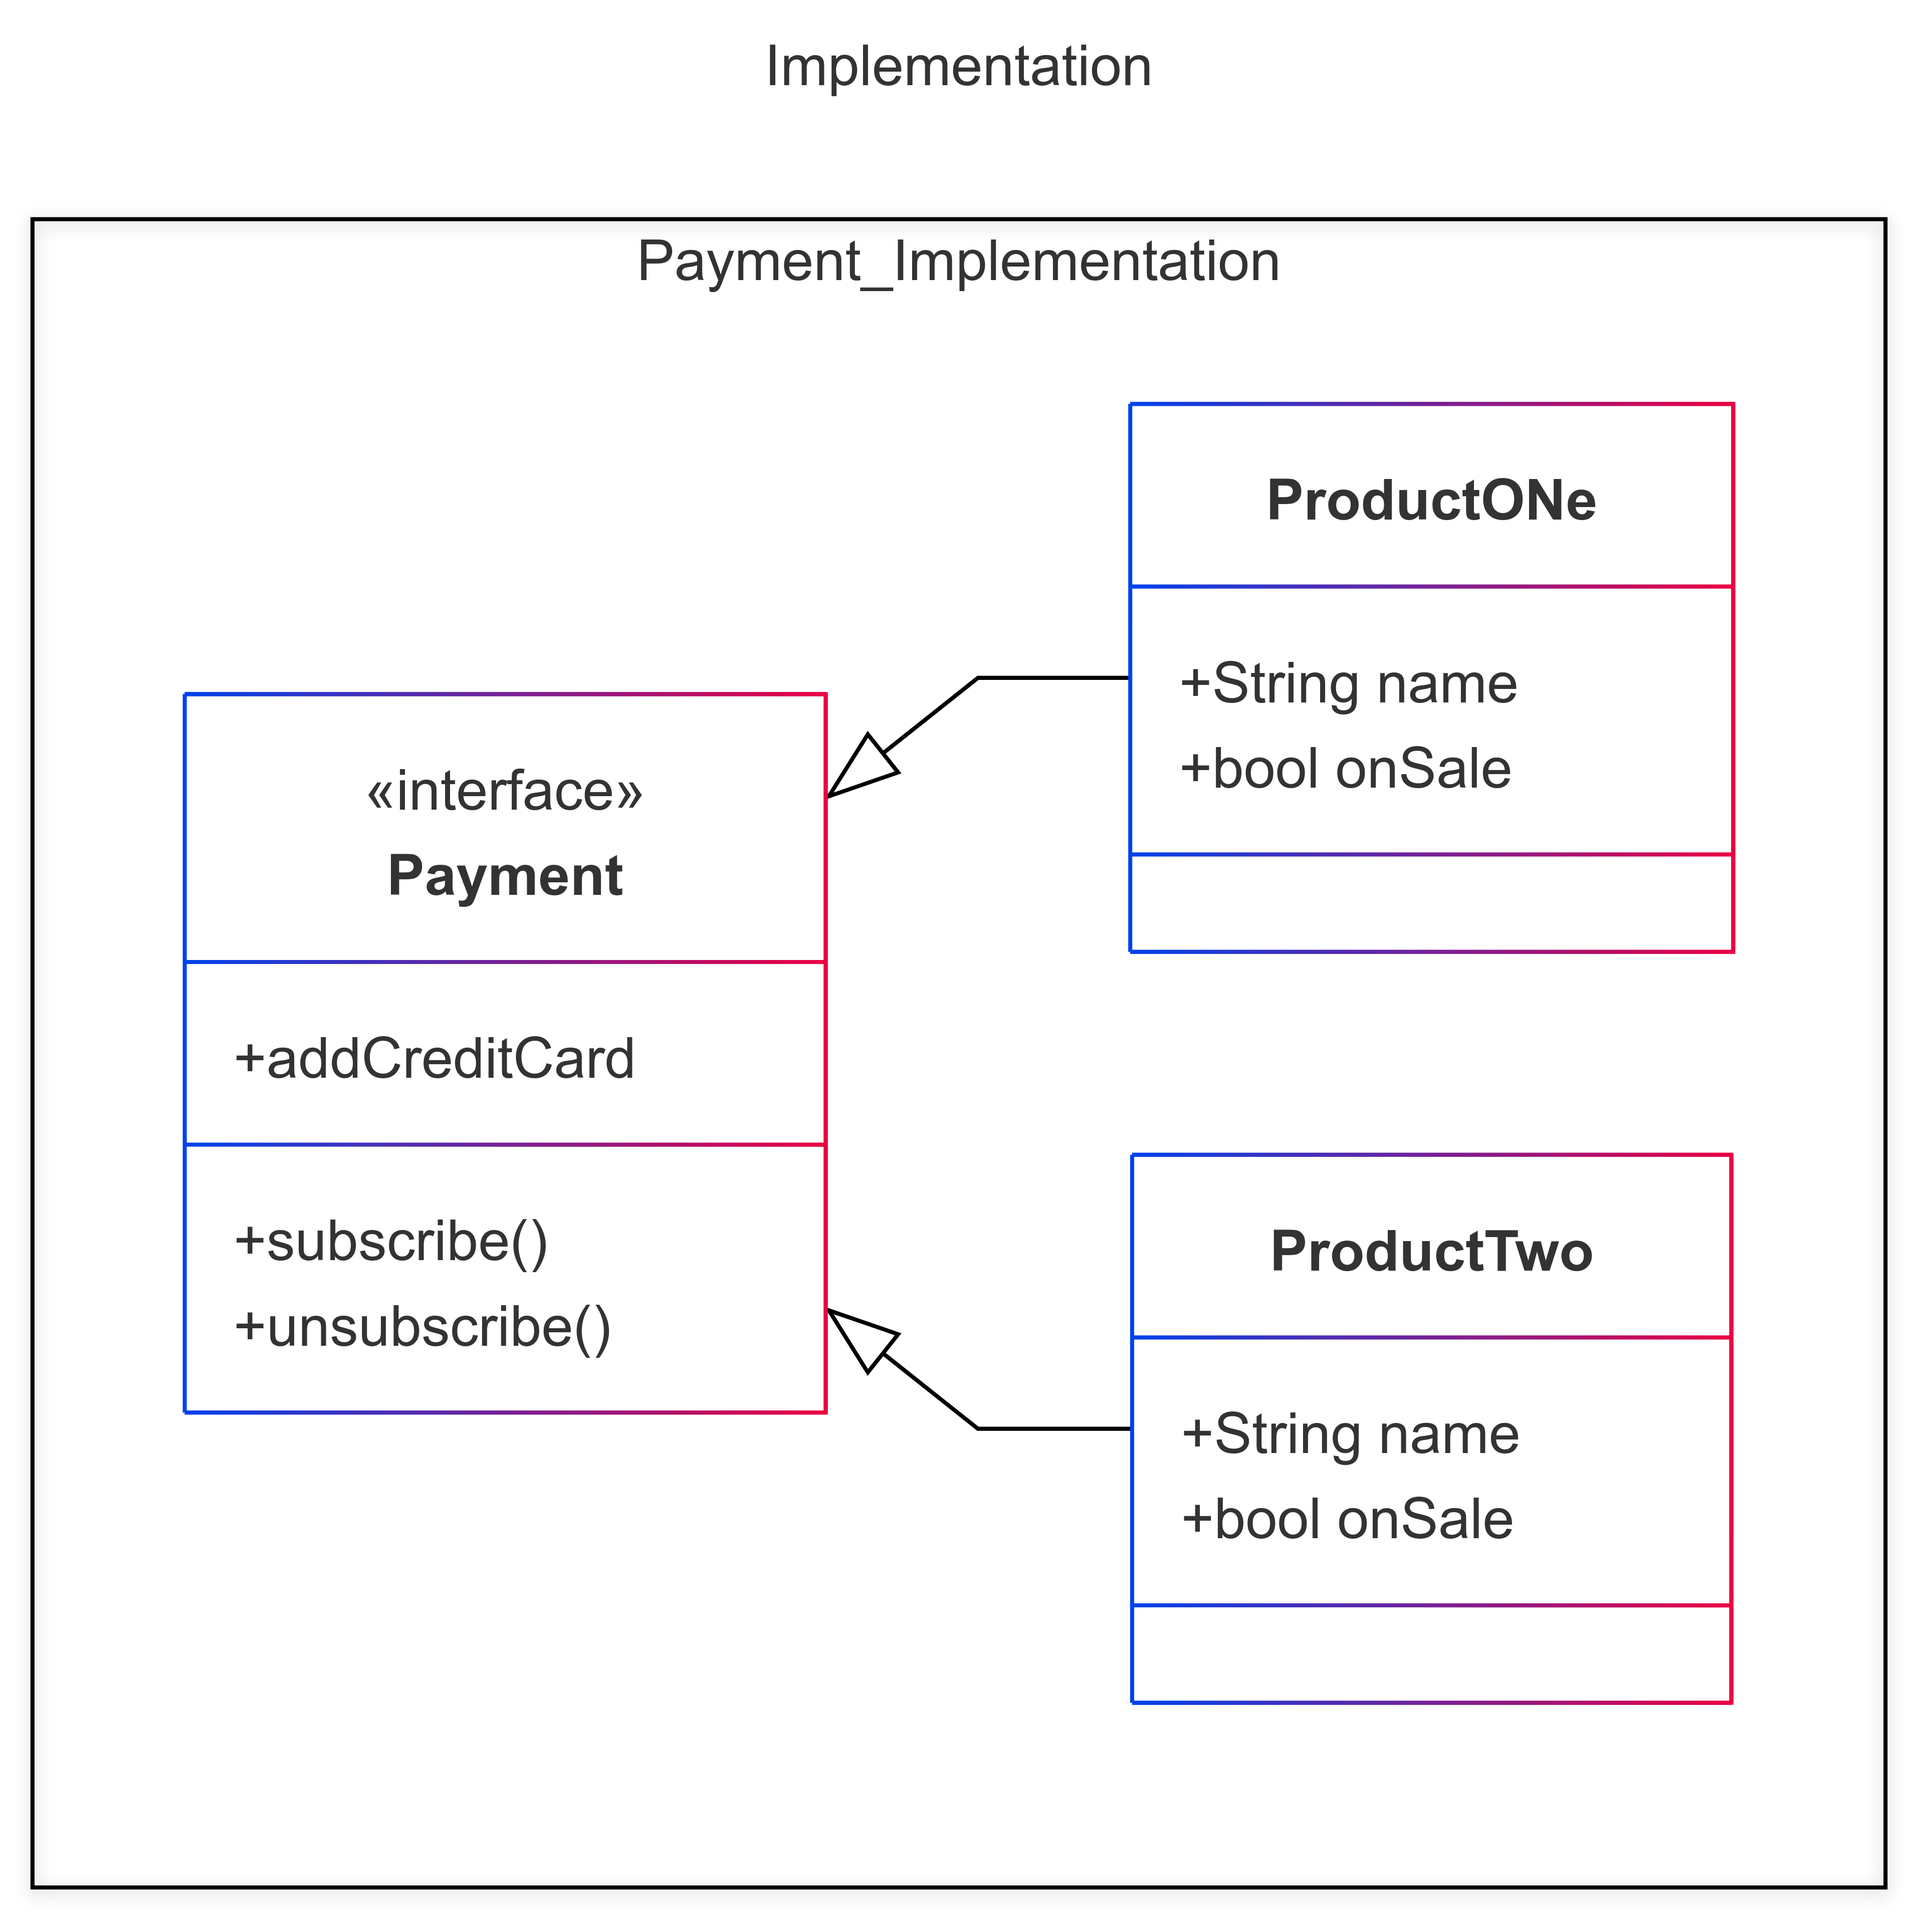
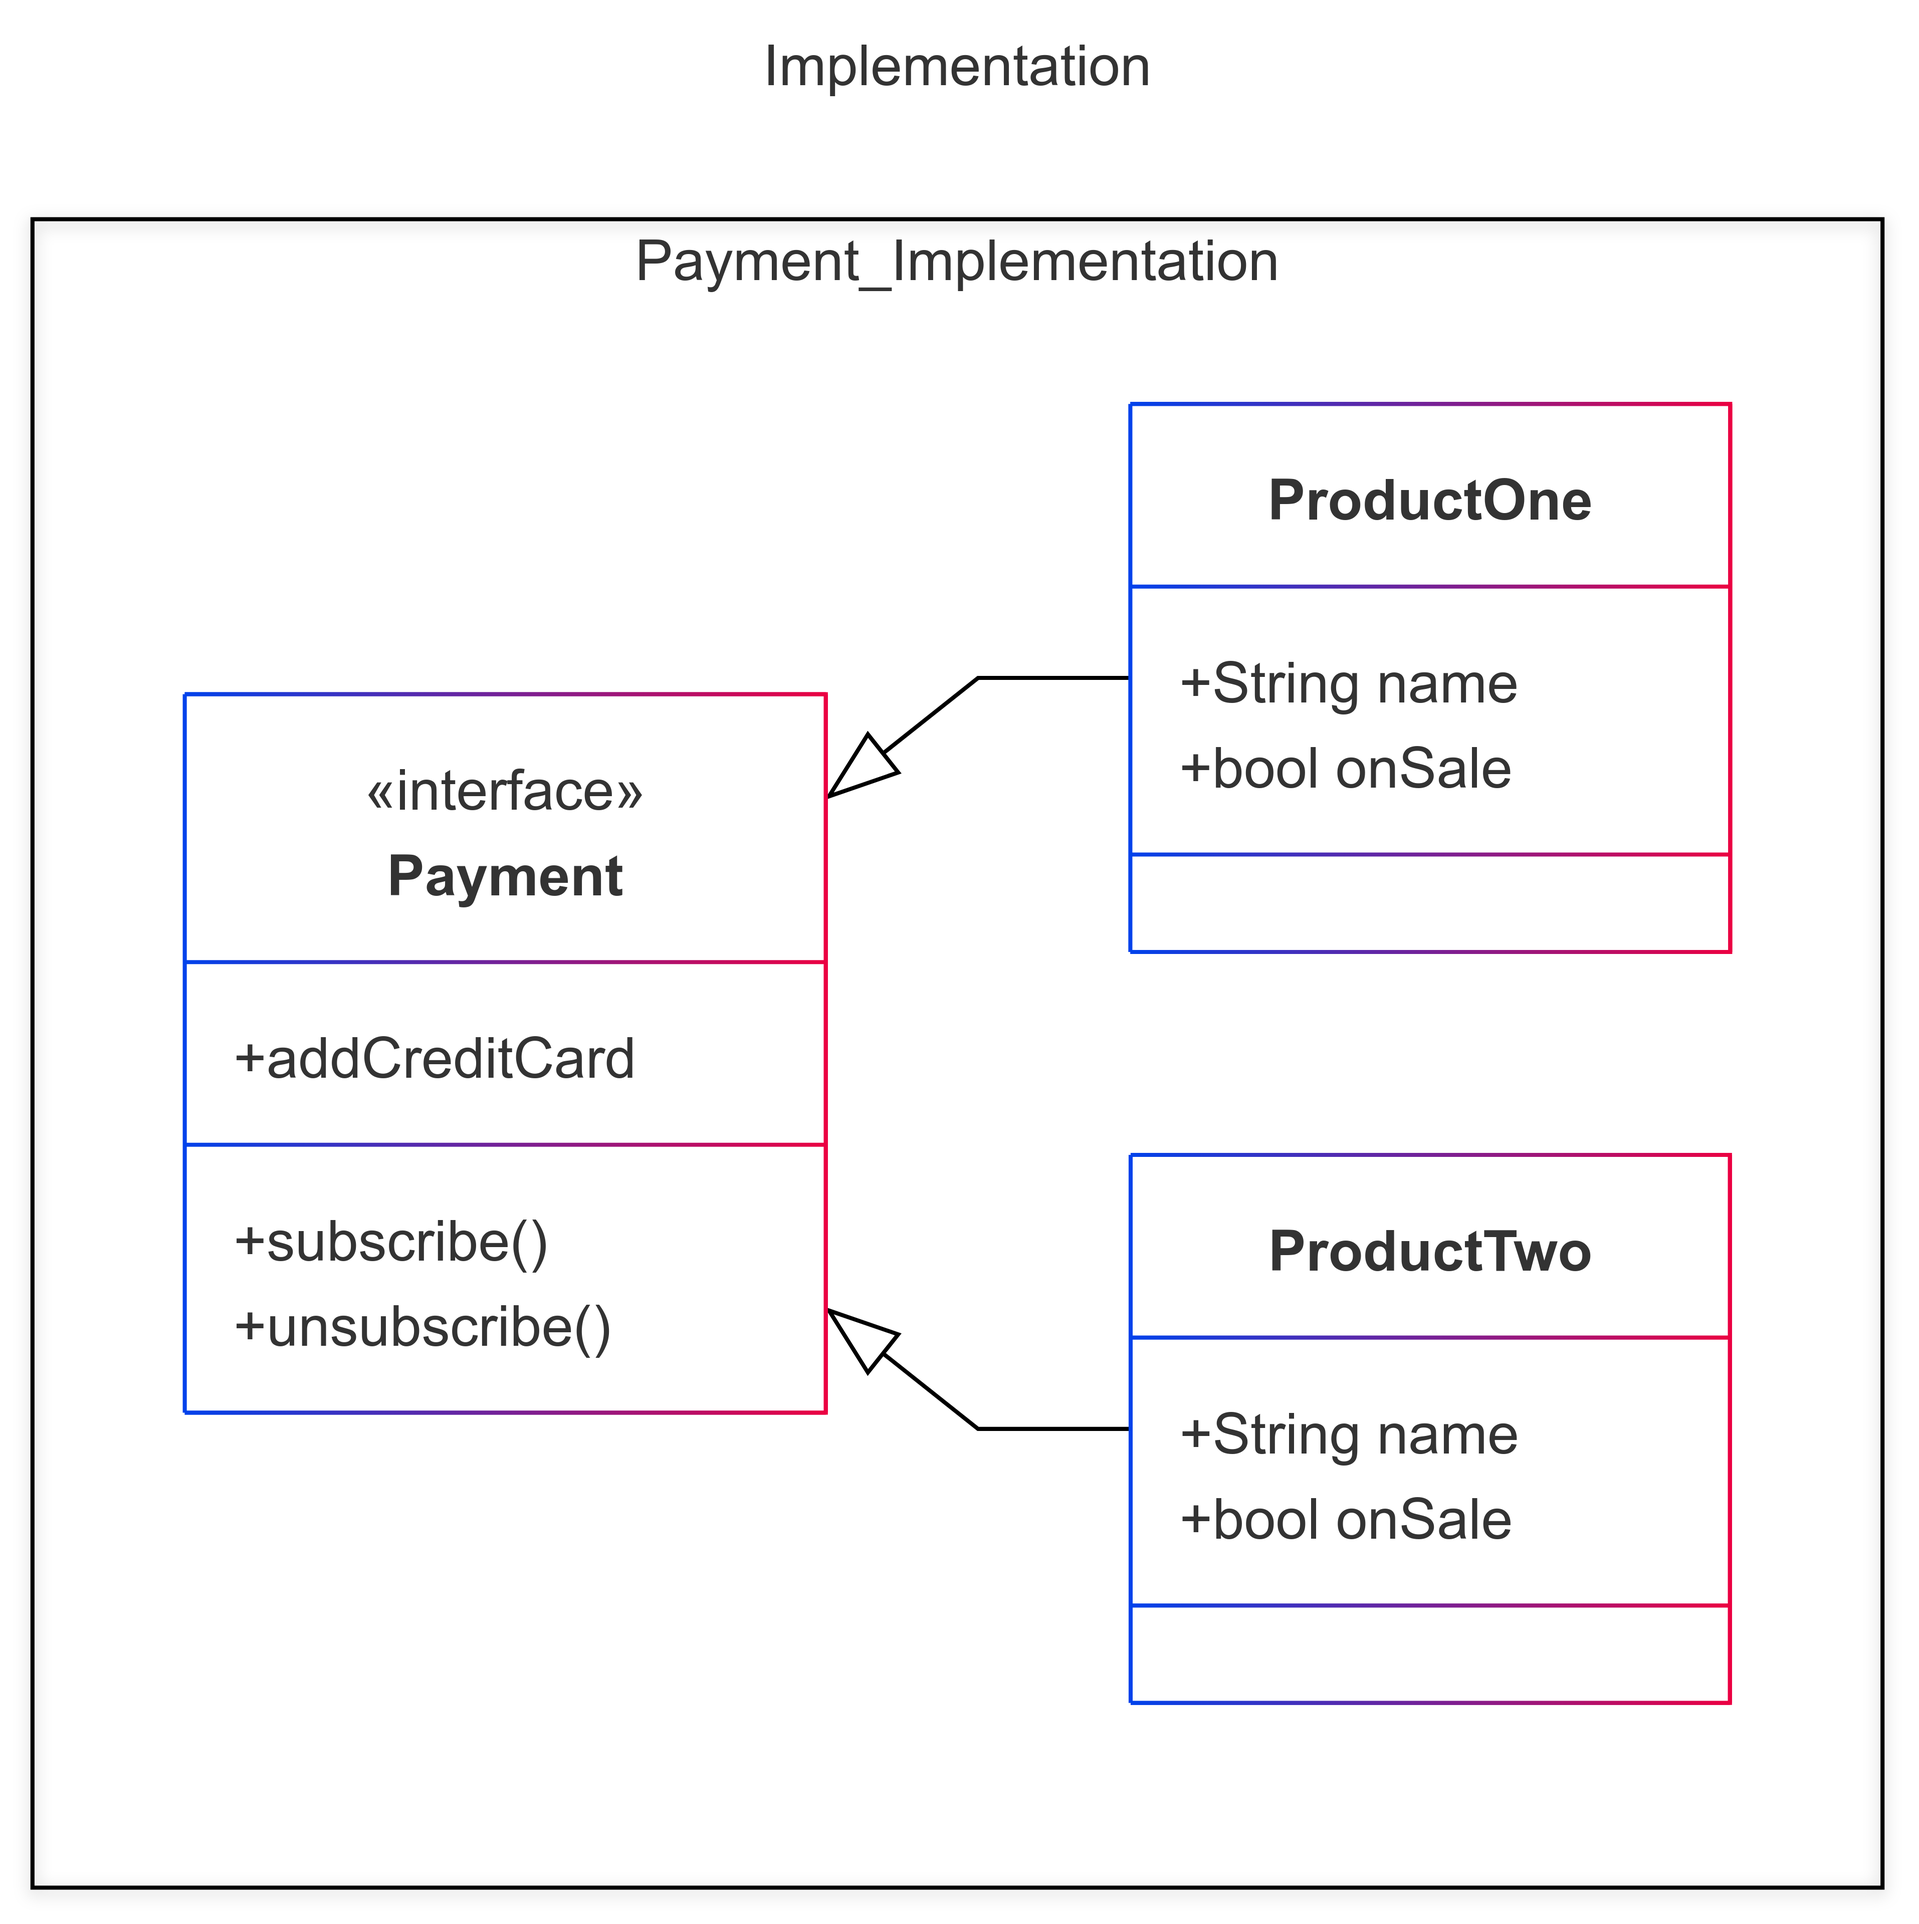
doc: change implementation from markdown image to html image.

diff --git a/poo/implementation.md b/poo/implementation.md
@@ -3,7 +3,7 @@
 title: Implementation
 ---
 classDiagram
-    Payment <|-- ProductONe
+    Payment <|-- ProductOne
     Payment <|-- ProductTwo
 
     namespace Payment_implementation{

diff --git a/poo/README.md b/poo/README.md
@@ -4,7 +4,7 @@
 
 ## Implementação
 
-!['impl'](implementation.png)
+<img src="implementation.png" alt="Implementation" height="500px" wight="500px">
 
 <hr>
 
